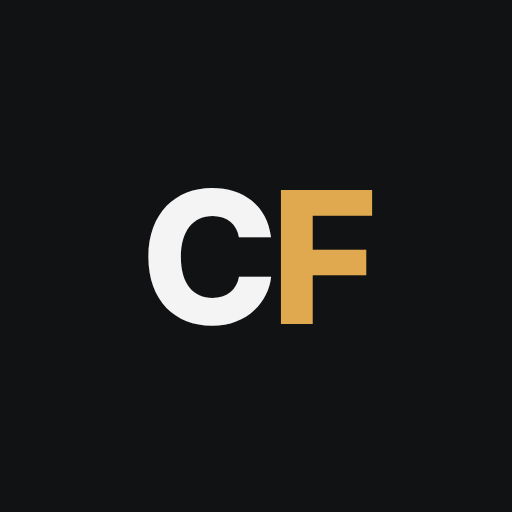
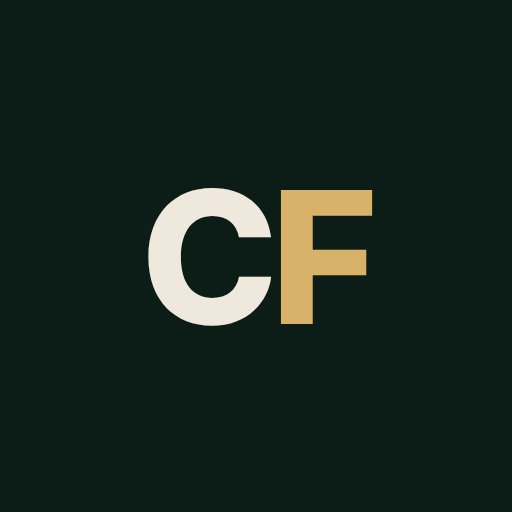
Switch to a dark green and brass palette
Claude-Session: https://claude.ai/code/session_01CdBN7NvxCUgERtb7by2b7x

Changed region(s): [[0.2812, 0.3438, 0.75, 0.6562]]

diff --git a/styles.css b/styles.css
@@ -1,21 +1,26 @@
 /* CutFolio — a shop ledger for one barber.
    Layout: single column, phone first. Summary on top, detail below.
-   Identity: warm paper (or shop-floor dark), barber-pole red and blue,
-   condensed sign-painter numerals for every figure that matters. */
+   Identity: deep barbershop green like a vintage chair, brass for the
+   things to tap, condensed sign-painter numerals for every figure. */
 :root {
-  --bg: #f3f2ee;
-  --surface: #ffffff;
-  --surface-2: #ebe9e3;
-  --line: #dcd9d1;
-  --ink: #18171a;
-  --muted: #6d6961;
-  --red: #c3352b;
-  --red-soft: #f6dedb;
-  --blue: #2c4f9e;
-  --blue-soft: #dfe5f4;
-  --on-red: #ffffff;
-  --good: #2e8a56;
-  --scrim: rgba(12, 11, 13, .94);
+  --bg: #0c1c16;
+  --surface: #12271f;
+  --surface-2: #1a3329;
+  --line: #24402f;
+  --ink: #eee9dc;
+  --muted: #9bb0a3;
+  --accent: #d9b26a;        /* brass */
+  --accent-soft: #33301f;
+  --on-accent: #10200f;
+  --alt: #8fcfaa;           /* sage, for returning clients */
+  --alt-soft: #193a2b;
+  --danger: #ec7b6c;
+  --danger-soft: #3a2420;
+  --good: #8fcfaa;
+  --pole-red: #c8423a;
+  --pole-blue: #4a6cc0;
+  --pole-white: #eee9dc;
+  --scrim: rgba(6, 14, 11, .95);
 
   --font-display: "Big Shoulders Display", "Arial Narrow", "Helvetica Neue", sans-serif;
   --font-body: "Instrument Sans", -apple-system, BlinkMacSystemFont, "Segoe UI", sans-serif;
@@ -23,23 +28,7 @@
   --radius: 14px;
   --safe-top: env(safe-area-inset-top, 0px);
   --safe-bottom: env(safe-area-inset-bottom, 0px);
-  color-scheme: light;
-}
-@media (prefers-color-scheme: dark) {
-  :root {
-    --bg: #121113;
-    --surface: #1b1a1d;
-    --surface-2: #26242a;
-    --line: #302e34;
-    --ink: #f2efea;
-    --muted: #9d988f;
-    --red: #e24a3e;
-    --red-soft: #3a1d1b;
-    --blue: #86a1e8;
-    --blue-soft: #1d2438;
-    --good: #5cc48a;
-    color-scheme: dark;
-  }
+  color-scheme: dark;
 }
 
 * { box-sizing: border-box; -webkit-tap-highlight-color: transparent; }
@@ -55,7 +44,7 @@ body {
 }
 button, input, textarea { font: inherit; color: inherit; }
 button { cursor: pointer; border: 0; background: none; padding: 0; }
-button:focus-visible, input:focus-visible, textarea:focus-visible, summary:focus-visible { outline: 2px solid var(--blue); outline-offset: 2px; }
+button:focus-visible, input:focus-visible, textarea:focus-visible, summary:focus-visible { outline: 2px solid var(--accent); outline-offset: 2px; }
 h1, h2, h3 { margin: 0; text-wrap: balance; }
 .app { max-width: 560px; margin: 0 auto; display: flex; flex-direction: column; gap: 14px; }
 .ico { width: 22px; height: 22px; flex: none; stroke: currentColor; fill: none; stroke-width: 1.8; stroke-linecap: round; stroke-linejoin: round; }
@@ -66,7 +55,7 @@ h1, h2, h3 { margin: 0; text-wrap: balance; }
 /* Barber pole band */
 .pole {
   height: 6px; border-radius: 3px;
-  background: repeating-linear-gradient(-45deg, var(--red) 0 7px, var(--surface) 7px 12px, var(--blue) 12px 19px, var(--surface) 19px 24px);
+  background: repeating-linear-gradient(-45deg, var(--pole-red) 0 7px, var(--pole-white) 7px 12px, var(--pole-blue) 12px 19px, var(--pole-white) 19px 24px);
   box-shadow: inset 0 0 0 1px var(--line);
 }
 
@@ -74,7 +63,7 @@ h1, h2, h3 { margin: 0; text-wrap: balance; }
 .masthead { display: flex; flex-direction: column; gap: 10px; padding-top: 6px; }
 .masthead .row1 { display: flex; align-items: baseline; justify-content: space-between; gap: 12px; }
 .wordmark { font-family: var(--font-display); font-weight: 800; font-size: 40px; line-height: .9; letter-spacing: -.01em; text-transform: uppercase; }
-.wordmark span { color: var(--red); }
+.wordmark span { color: var(--accent); }
 .topbar { display: flex; align-items: center; gap: 10px; min-height: 44px; }
 .topbar h1 { font-family: var(--font-display); font-weight: 800; font-size: 30px; text-transform: uppercase; letter-spacing: .01em; flex: 1; min-width: 0; }
 .icon-btn {
@@ -89,7 +78,7 @@ h1, h2, h3 { margin: 0; text-wrap: balance; }
   min-height: 52px; padding: 0 16px; border-radius: 12px; font-weight: 600; font-size: 16px;
   background: var(--surface); border: 1px solid var(--line);
 }
-.btn-red { background: var(--red); color: var(--on-red); border-color: var(--red); }
+.btn-red { background: var(--accent); color: var(--on-accent); border-color: var(--accent); }
 .btn-big { grid-column: span 2; min-height: 64px; font-size: 19px; }
 .btn-big .ico { width: 26px; height: 26px; }
 .btn-tile { flex-direction: column; gap: 6px; min-height: 76px; padding: 10px 8px; font-size: 15px; text-align: center; }
@@ -108,12 +97,12 @@ h1, h2, h3 { margin: 0; text-wrap: balance; }
 .hero .meta { display: flex; align-items: center; gap: 8px; margin-top: 8px; font-size: 14px; color: var(--muted); flex-wrap: wrap; }
 .delta { font-weight: 600; font-size: 13px; padding: 3px 8px; border-radius: 999px; background: var(--surface-2); color: var(--muted); }
 .delta.up { background: color-mix(in srgb, var(--good) 16%, transparent); color: var(--good); }
-.delta.down { background: var(--red-soft); color: var(--red); }
+.delta.down { background: var(--danger-soft); color: var(--danger); }
 
 .daybars { display: flex; align-items: flex-end; gap: 2px; height: 72px; margin-top: 16px; border-bottom: 1px solid var(--line); }
 .daybars i { flex: 1; min-height: 2px; background: color-mix(in srgb, var(--ink) 10%, var(--surface)); border-radius: 2px 2px 0 0; }
-.daybars i.has { background: color-mix(in srgb, var(--ink) 70%, transparent); }
-.daybars i.today { background: var(--red); }
+.daybars i.has { background: color-mix(in srgb, var(--ink) 55%, transparent); }
+.daybars i.today { background: var(--accent); }
 .daybars i.future { background: transparent; }
 .dayaxis { display: flex; justify-content: space-between; font-size: 11px; color: var(--muted); margin-top: 4px; font-variant-numeric: tabular-nums; }
 
@@ -122,8 +111,8 @@ h1, h2, h3 { margin: 0; text-wrap: balance; }
 .stat .sub { font-size: 13px; color: var(--muted); margin-top: 6px; }
 
 .split { display: flex; height: 12px; border-radius: 6px; overflow: hidden; gap: 3px; margin-top: 14px; background: var(--surface-2); }
-.split .a { background: var(--red); border-radius: 6px; }
-.split .b { background: var(--blue); border-radius: 6px; }
+.split .a { background: var(--accent); border-radius: 6px; }
+.split .b { background: var(--alt); border-radius: 6px; }
 .split-legend { display: flex; justify-content: space-between; margin-top: 12px; gap: 12px; }
 .split-legend div { display: flex; flex-direction: column; gap: 4px; }
 .split-legend div:last-child { text-align: right; }
@@ -135,9 +124,9 @@ h1, h2, h3 { margin: 0; text-wrap: balance; }
 .weekbars { display: grid; grid-template-columns: repeat(7, 1fr); gap: 8px; align-items: end; height: 92px; margin-top: 16px; }
 .weekbars div { display: flex; flex-direction: column; justify-content: flex-end; align-items: center; gap: 6px; height: 100%; }
 .weekbars i { width: 100%; background: color-mix(in srgb, var(--ink) 16%, var(--surface)); border-radius: 4px; min-height: 3px; }
-.weekbars i.best { background: var(--red); }
+.weekbars i.best { background: var(--accent); }
 .weekbars span { font-size: 12px; color: var(--muted); font-weight: 600; }
-.weekbars span.best { color: var(--red); }
+.weekbars span.best { color: var(--accent); }
 .best-day { font-size: 34px; margin-top: 6px; text-transform: uppercase; }
 
 .hint { text-align: center; color: var(--muted); font-size: 14px; margin: 6px 0; }
@@ -172,7 +161,7 @@ h1, h2, h3 { margin: 0; text-wrap: balance; }
 .avatar img { width: 100%; height: 100%; object-fit: cover; display: block; }
 .count-line { font-size: 13px; color: var(--muted); padding: 0 4px; }
 .empty { text-align: center; color: var(--muted); padding: 36px 16px; }
-.linkbtn { color: var(--red); font-weight: 600; padding: 6px 0; }
+.linkbtn { color: var(--accent); font-weight: 600; padding: 6px 0; }
 
 /* ---------- Profile ---------- */
 .profile { display: flex; align-items: center; gap: 16px; }
@@ -189,9 +178,9 @@ h1, h2, h3 { margin: 0; text-wrap: balance; }
 .rhythm { display: flex; align-items: center; gap: 10px; font-size: 14px; color: var(--muted); padding: 0 4px; }
 .rhythm b { color: var(--ink); font-weight: 600; }
 .pill { display: inline-flex; align-items: center; gap: 4px; font-size: 12px; font-weight: 700; letter-spacing: .04em; text-transform: uppercase; padding: 4px 9px; border-radius: 999px; }
-.pill.due { background: var(--red-soft); color: var(--red); }
-.pill.new { background: var(--red-soft); color: var(--red); }
-.pill.ret { background: var(--blue-soft); color: var(--blue); }
+.pill.due { background: var(--danger-soft); color: var(--danger); }
+.pill.new { background: var(--accent-soft); color: var(--accent); }
+.pill.ret { background: var(--alt-soft); color: var(--alt); }
 .section { display: flex; align-items: baseline; justify-content: space-between; margin-top: 8px; padding: 0 4px; }
 .section h3 { font-family: var(--font-display); font-weight: 800; font-size: 22px; text-transform: uppercase; }
 .gallery { display: grid; grid-template-columns: repeat(3, 1fr); gap: 6px; }
@@ -204,11 +193,11 @@ h1, h2, h3 { margin: 0; text-wrap: balance; }
 .ledger .when .m { font-size: 11px; font-weight: 700; letter-spacing: .1em; text-transform: uppercase; color: var(--muted); }
 .ledger .right .num { font-size: 24px; }
 .ledger .del { color: var(--muted); font-size: 12px; font-weight: 500; padding: 6px 0 0; display: block; margin-left: auto; }
-.ledger .del.armed { color: var(--red); }
+.ledger .del.armed { color: var(--danger); }
 .danger { margin-top: 18px; display: flex; flex-direction: column; gap: 8px; }
 .danger .note { font-size: 13px; color: var(--muted); text-align: center; }
-.btn-danger { color: var(--red); background: transparent; border-color: var(--line); }
-.btn-danger.armed { background: var(--red); color: var(--on-red); border-color: var(--red); }
+.btn-danger { color: var(--danger); background: transparent; border-color: var(--line); }
+.btn-danger.armed { background: var(--danger); color: #2a0d09; border-color: var(--danger); }
 
 /* ---------- Forms ---------- */
 .label { display: block; font-size: 12px; font-weight: 700; letter-spacing: .1em; text-transform: uppercase; color: var(--muted); margin: 6px 4px 8px; }
@@ -261,7 +250,7 @@ textarea.field { min-height: 76px; resize: vertical; }
 .login { min-height: 78dvh; display: flex; flex-direction: column; justify-content: center; gap: 14px; }
 .login .wordmark { font-size: 64px; text-align: center; }
 .login .pole { width: 120px; align-self: center; margin-bottom: 18px; }
-.login .error { color: var(--red); font-size: 14px; min-height: 20px; text-align: center; }
+.login .error { color: var(--danger); font-size: 14px; min-height: 20px; text-align: center; }
 .loading { min-height: 70dvh; display: grid; place-items: center; color: var(--muted); text-align: center; }
 
 /* ---------- Overlays ---------- */
@@ -276,7 +265,7 @@ textarea.field { min-height: 76px; resize: vertical; }
   display: flex; align-items: center; gap: 8px;
 }
 .toast .ico { width: 18px; height: 18px; color: var(--good); stroke-width: 2.4; }
-.toast.err { background: var(--red); color: var(--on-red); }
+.toast.err { background: var(--danger); color: #2a0d09; }
 .placeholder { text-align: center; padding: 56px 20px; color: var(--muted); display: flex; flex-direction: column; align-items: center; gap: 10px; }
 .placeholder .ico { width: 44px; height: 44px; stroke-width: 1.4; }
 .placeholder h2 { color: var(--ink); font-family: var(--font-display); font-weight: 800; font-size: 28px; text-transform: uppercase; }

diff --git a/app.js b/app.js
@@ -336,8 +336,8 @@ function renderHome() {
         ? `${newCount ? `<div class="a" style="flex:${newCount}"></div>` : ''}${retCount ? `<div class="b" style="flex:${retCount}"></div>` : ''}`
         : ''}</div>
       <div class="split-legend">
-        <div><span class="num figure">${newCount}</span><span class="k"><i class="swatch" style="background:var(--red)"></i>New</span></div>
-        <div><span class="num figure">${retCount}</span><span class="k">Returning<i class="swatch" style="background:var(--blue)"></i></span></div>
+        <div><span class="num figure">${newCount}</span><span class="k"><i class="swatch" style="background:var(--accent)"></i>New</span></div>
+        <div><span class="num figure">${retCount}</span><span class="k">Returning<i class="swatch" style="background:var(--alt)"></i></span></div>
       </div>
     </section>
 

diff --git a/index.html b/index.html
@@ -5,10 +5,9 @@
 <meta name="viewport" content="width=device-width, initial-scale=1, viewport-fit=cover">
 <meta name="apple-mobile-web-app-capable" content="yes">
 <meta name="mobile-web-app-capable" content="yes">
-<meta name="apple-mobile-web-app-status-bar-style" content="default">
+<meta name="apple-mobile-web-app-status-bar-style" content="black-translucent">
 <meta name="apple-mobile-web-app-title" content="CutFolio">
-<meta name="theme-color" content="#f3f2ee" media="(prefers-color-scheme: light)">
-<meta name="theme-color" content="#121113" media="(prefers-color-scheme: dark)">
+<meta name="theme-color" content="#0c1c16">
 <title>CutFolio</title>
 <link rel="manifest" href="manifest.webmanifest">
 <link rel="apple-touch-icon" href="icons/apple-touch-icon.png">
